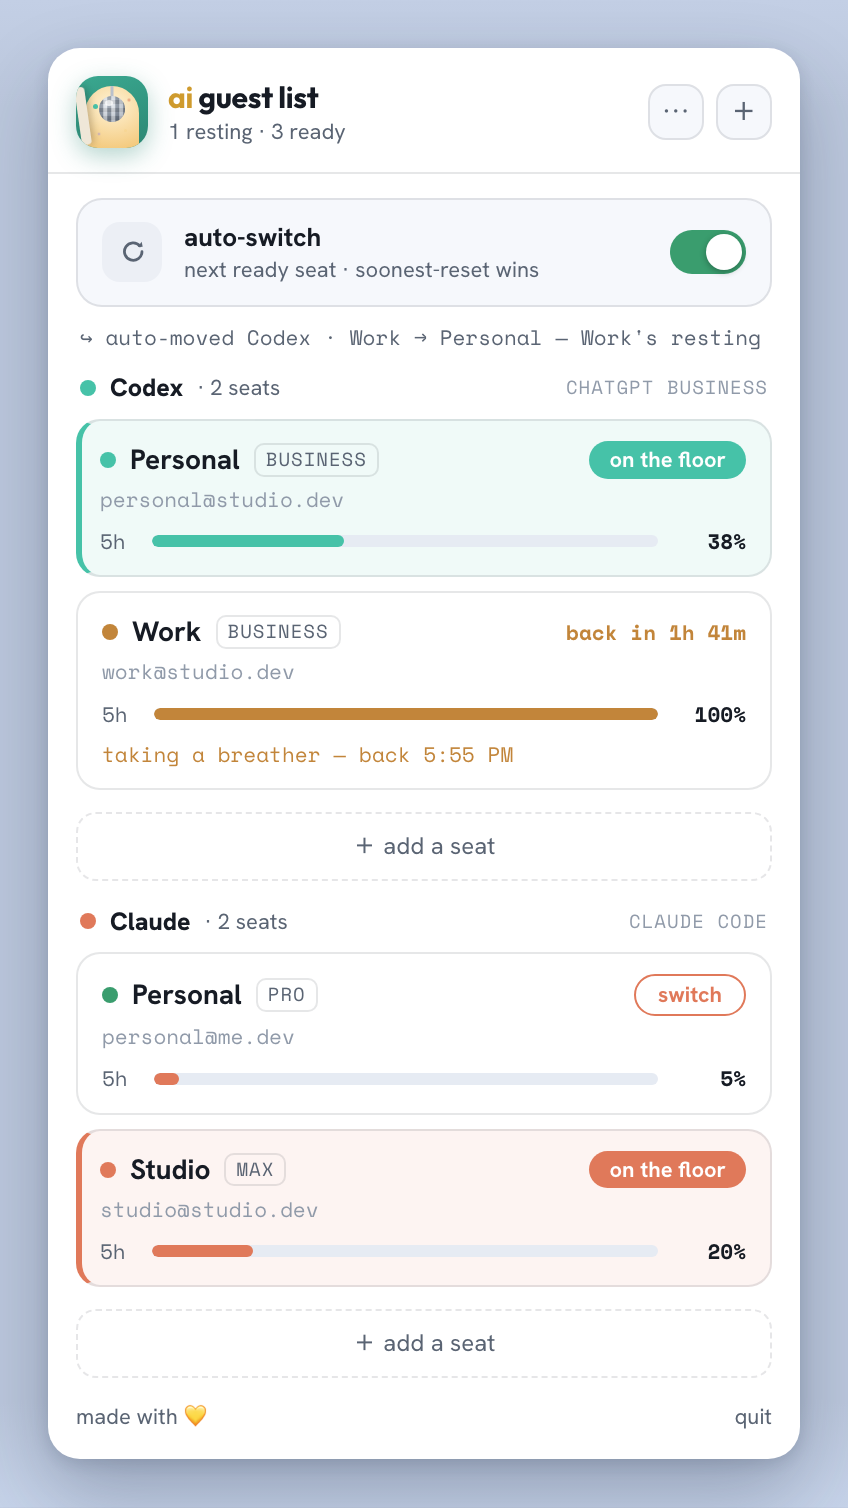
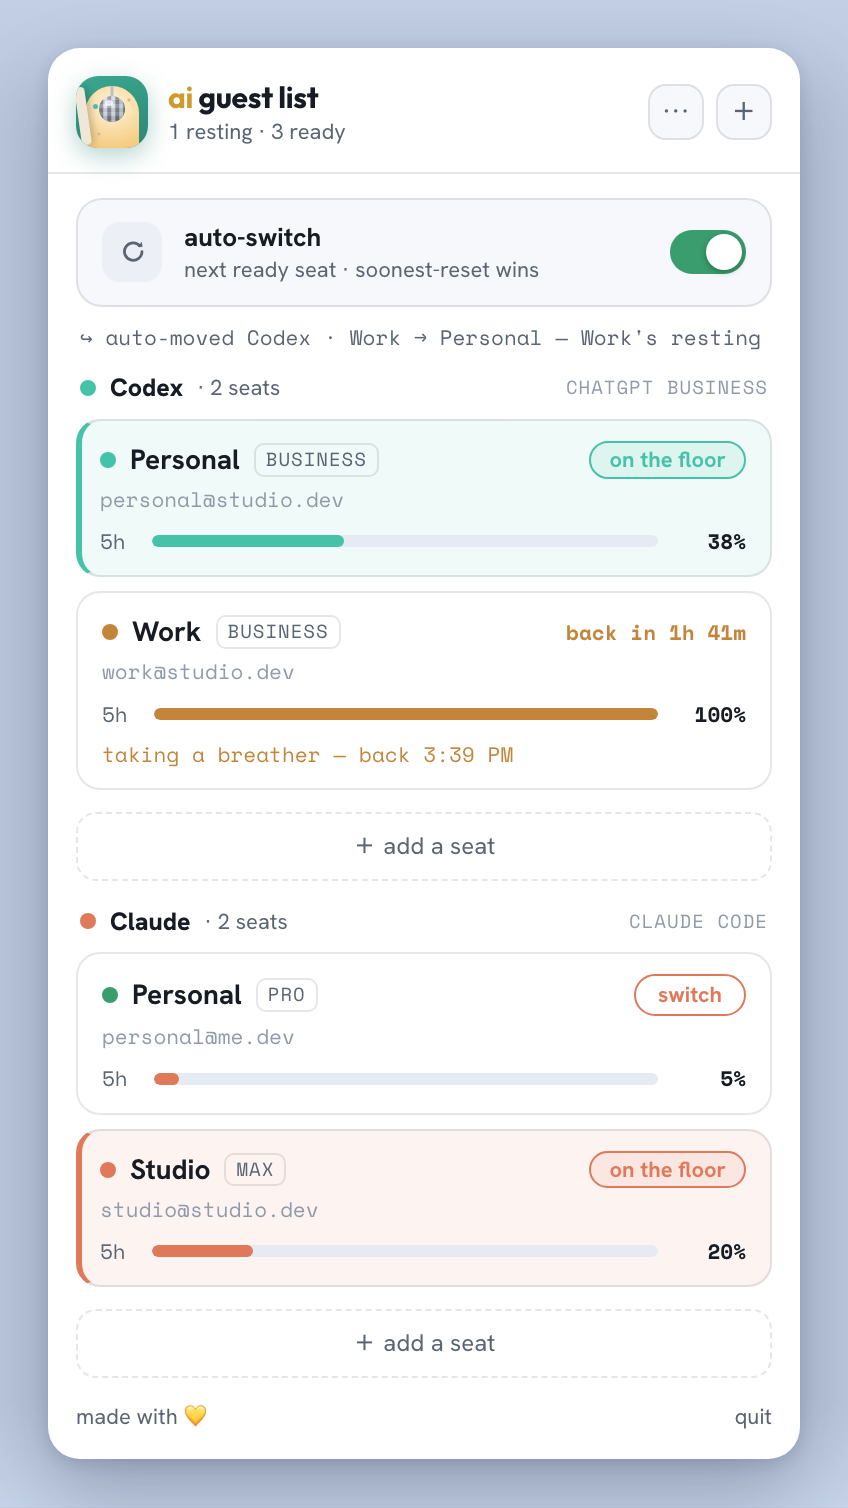
release prep: bump to 0.7.0, end the pyproject version drift, refresh screenshots
- acctsw.__version__ 0.6.0 -> 0.7.0 (the single source of truth setup.py reads
  and release.yml checks the tag against).
- pyproject.toml said 0.2.3. Nothing validated it, so it drifted while the app
  shipped 0.6.0. It now mirrors the source of truth, and two tests pin them
  together so a release can never advertise two different versions — one
  asserting they agree, one asserting setup.py's regex still finds the
  assignment (a reformat would otherwise break the bundle version silently).
  The drift guard was confirmed to fail when the old 0.2.3 is restored.
- Regenerated the README screenshots. The "on the floor" pill is outlined rather
  than solid when no supervised session is live — the most visible change in
  this branch — and scripts/screenshots.py exists precisely so the screenshots
  cannot advertise a UI the app no longer has.

380 pytest + 56 node green.

Changed region(s): [[0.7052, 0.748, 0.8892, 0.8103], [0.6745, 0.2805, 0.8892, 0.3428]]

diff --git a/tests/test_smoke.py b/tests/test_smoke.py
@@ -1,4 +1,6 @@
 """Milestone-1 smoke tests: the package imports and the CLI parser is wired up."""
+import pathlib
+import re
 import subprocess
 import sys
 
@@ -26,3 +28,25 @@ def test_module_runs_as_main():
     )
     assert out.returncode == 0
     assert "acctsw" in out.stdout
+
+
+def test_pyproject_version_matches_the_source_of_truth():
+    """``acctsw.__version__`` is the single source of truth: setup.py regex-reads it for the app
+    bundle and release.yml fails the build when the pushed tag disagrees. Nothing, however, validated
+    pyproject.toml — which silently drifted to 0.2.3 while the app shipped 0.6.0. Pin them together
+    so a release can never advertise two different versions."""
+    root = pathlib.Path(__file__).resolve().parent.parent
+    declared = re.search(r'(?m)^version\s*=\s*"([^"]+)"',
+                         (root / "pyproject.toml").read_text())
+    assert declared, "pyproject.toml has no [project] version"
+    assert declared.group(1) == acctsw.__version__, (
+        f"pyproject.toml says {declared.group(1)} but acctsw.__version__ is {acctsw.__version__}")
+
+
+def test_setup_py_reads_the_same_version():
+    """setup.py's own regex must still find it — a reformat of the assignment (e.g. adding a
+    trailing comment on the next line) would otherwise break the bundle version silently."""
+    root = pathlib.Path(__file__).resolve().parent.parent
+    found = re.search(r'__version__\s*=\s*"([^"]+)"',
+                      (root / "acctsw" / "__init__.py").read_text())
+    assert found and found.group(1) == acctsw.__version__

diff --git a/acctsw/__init__.py b/acctsw/__init__.py
@@ -4,7 +4,8 @@ The engine is intentionally stdlib-only so it can be vendored as a single direct
 without a virtualenv. The menubar app (``app/``) is a thin UI layer on top of this package.
 """
 
-__version__ = "0.6.0"     # marketing version — the SINGLE source of truth (setup.py reads this)
+__version__ = "0.7.0"     # marketing version — the SINGLE source of truth (setup.py reads this,
+                          # pyproject mirrors it, and tests/test_smoke.py pins them together)
 APP_NAME = "ai guest list"
 
 # Tools this engine knows how to manage.
